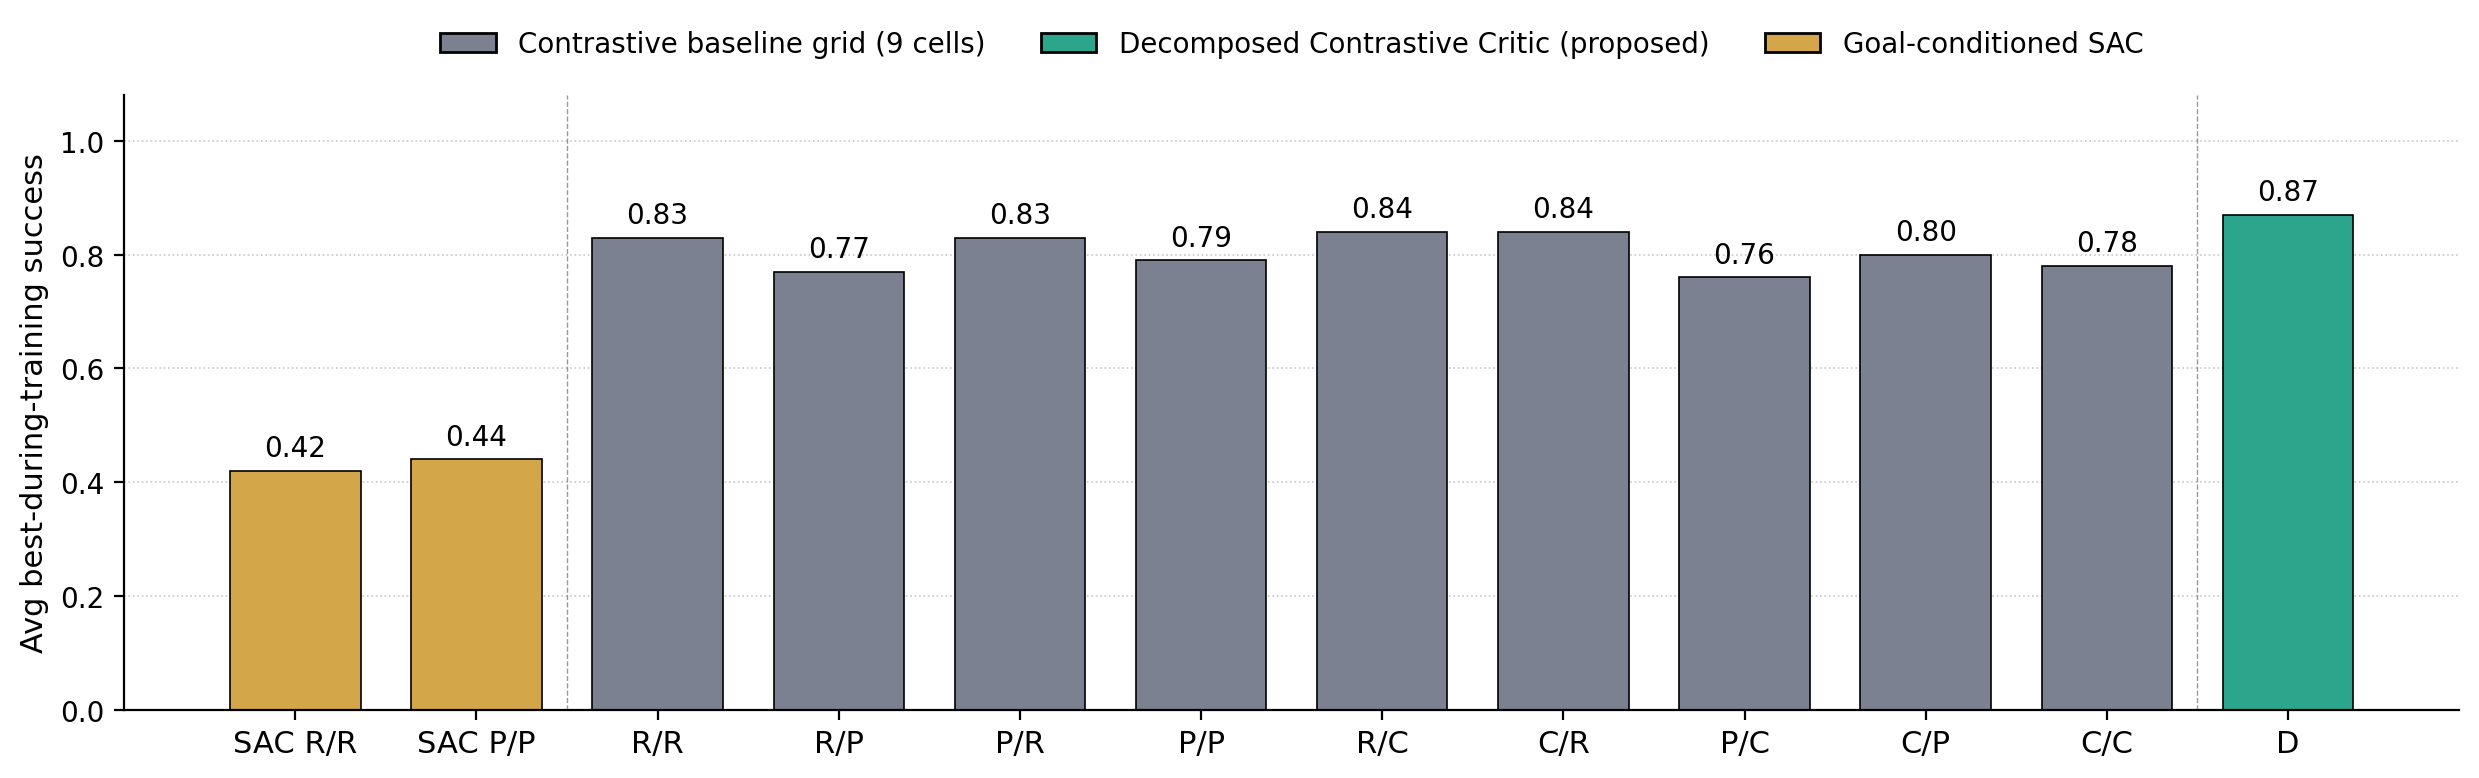
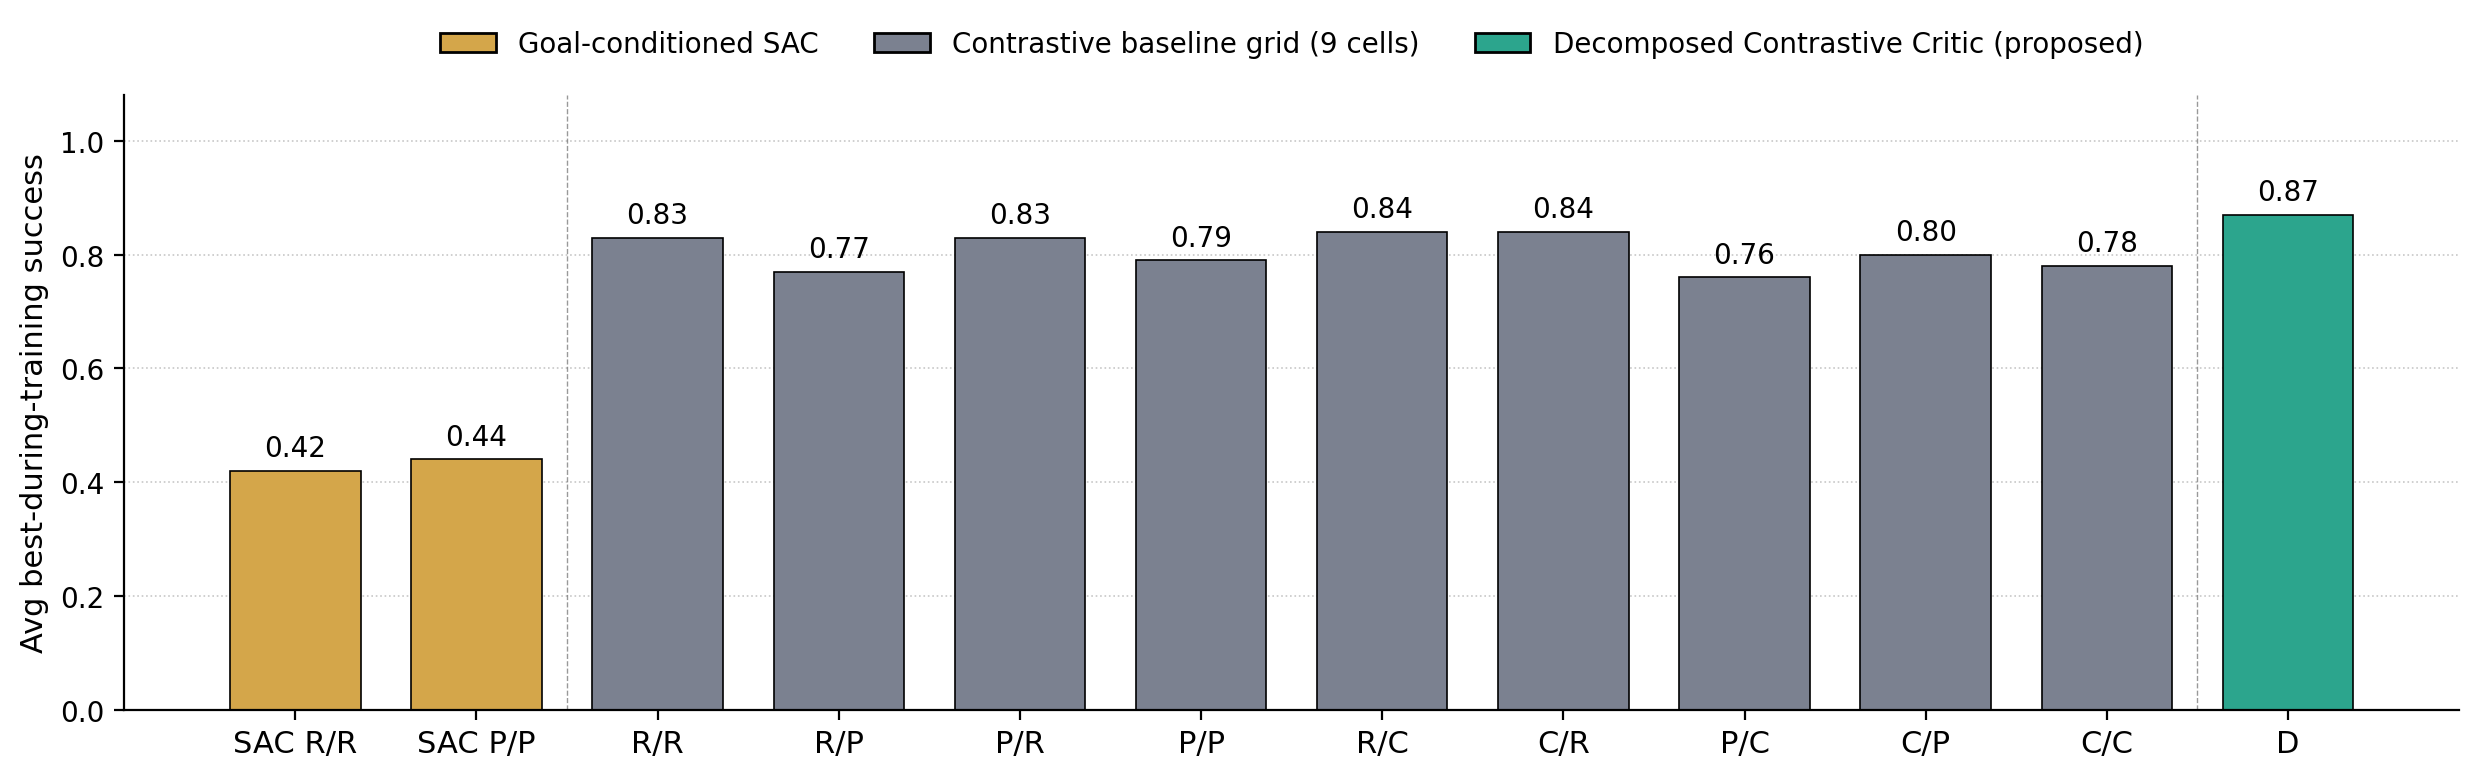
results: re-add render_all_variants_bar.py alongside the per-task line script (both used in the appendix Full results)

Changed region(s): [[0.1553, 0.0308, 0.8697, 0.0925]]

diff --git a/results/scripts/render_all_variants_per_task.py b/results/scripts/render_all_variants_per_task.py
@@ -1,0 +1,103 @@
+"""Per-task line plot across every variant.
+
+Ten Sawyer tasks on the x-axis, one line per variant. Three families:
+SAC (warm, dashed), contrastive 9-cell grid (cool, faint), and the
+proposed Decomposed Contrastive Critic D (bold teal, on top).
+"""
+from pathlib import Path
+import matplotlib.pyplot as plt
+import numpy as np
+
+OUT_PAPER = Path("/tmp/paper_rlc/figs")
+OUT_PAPER.mkdir(parents=True, exist_ok=True)
+OUT_ARCH = Path("/home/user/workspace/sgcrl/results/presentation/img/paper")
+OUT_ARCH.mkdir(parents=True, exist_ok=True)
+
+TASKS = [
+    "hammer", "push-wall", "faucet-close", "push-back", "stick-pull",
+    "handle-press-side", "push", "shelf-place", "window-close",
+    "peg-unplug-side",
+]
+
+# Per-task best mean success, copied from tab:full-grid.
+SAC = {
+    "SAC R/R": [1.00, 0.00, 0.70, 0.00, 1.00, 0.53, 0.07, 0.00, 0.80, 0.07],
+    "SAC P/P": [1.00, 0.13, 0.80, 0.00, 0.67, 0.50, 0.30, 0.00, 0.80, 0.17],
+}
+CONTRASTIVE = {
+    "R/R": [1.00, 1.00, 0.92, 1.00, 1.00, 0.24, 0.98, 0.98, 0.37, 0.83],
+    "R/P": [1.00, 1.00, 0.84, 1.00, 1.00, 0.12, 1.00, 0.68, 0.43, 0.67],
+    "P/R": [1.00, 1.00, 0.86, 1.00, 1.00, 0.24, 1.00, 0.94, 0.40, 0.83],
+    "P/P": [1.00, 1.00, 0.88, 1.00, 1.00, 0.20, 1.00, 0.66, 0.37, 0.80],
+    "R/C": [1.00, 1.00, 0.84, 1.00, 1.00, 0.20, 1.00, 0.98, 0.48, 0.90],
+    "C/R": [1.00, 1.00, 0.92, 1.00, 0.98, 0.26, 1.00, 0.98, 0.40, 0.87],
+    "P/C": [1.00, 1.00, 0.82, 1.00, 1.00, 0.12, 0.98, 0.66, 0.37, 0.67],
+    "C/P": [1.00, 1.00, 0.90, 1.00, 1.00, 0.20, 1.00, 0.78, 0.38, 0.73],
+    "C/C": [1.00, 1.00, 0.90, 1.00, 0.90, 0.18, 0.95, 0.75, 0.37, 0.77],
+}
+D_NAME = "D (proposed)"
+D_VALS = [1.00, 1.00, 0.87, 1.00, 1.00, 0.40, 1.00, 0.97, 0.63, 0.87]
+
+# Aesthetics
+COLOR_D = "#1f8f76"            # deep teal
+COLOR_SAC = ["#d4823a", "#b86528"]  # two warm tones
+# Cool palette for the nine contrastive cells.
+cm = plt.get_cmap("Blues")
+CONTR_COLORS = [cm(0.30 + 0.55 * i / 8) for i in range(9)]
+
+HARD_TASKS = {5, 8, 9}  # shade for visual continuity with other figures
+
+x = np.arange(len(TASKS))
+
+fig, ax = plt.subplots(figsize=(13.0, 5.0))
+
+# Hard-task shading.
+for t in HARD_TASKS:
+    ax.axvspan(t - 0.45, t + 0.45, color="#f4d9a3", alpha=0.22, zorder=0)
+
+# Contrastive baselines (back).
+for (name, vals), c in zip(CONTRASTIVE.items(), CONTR_COLORS):
+    ax.plot(x, vals, color=c, linewidth=1.4, alpha=0.85, marker="o",
+            markersize=3.5, label=name, zorder=2)
+
+# SAC (mid).
+for (name, vals), c in zip(SAC.items(), COLOR_SAC):
+    ax.plot(x, vals, color=c, linewidth=1.8, alpha=0.95, linestyle="--",
+            marker="s", markersize=4.5, label=name, zorder=3)
+
+# D on top.
+ax.plot(x, D_VALS, color=COLOR_D, linewidth=3.0, marker="o",
+        markersize=8.0, markerfacecolor=COLOR_D,
+        markeredgecolor="white", markeredgewidth=1.2,
+        label=D_NAME, zorder=5)
+
+ax.set_xticks(x)
+ax.set_xticklabels([f"{i}\n{t}" for i, t in enumerate(TASKS)], fontsize=10)
+ax.set_xlabel("Task in continual curriculum", fontsize=11, labelpad=8)
+ax.set_ylabel("Best mean success", fontsize=11)
+ax.set_ylim(-0.03, 1.05)
+ax.set_yticks(np.linspace(0, 1, 6))
+ax.grid(axis="y", linestyle=":", linewidth=0.6, alpha=0.6)
+ax.set_axisbelow(True)
+ax.spines[["top", "right"]].set_visible(False)
+ax.set_xlim(-0.5, len(TASKS) - 0.5)
+
+# Two-column legend grouped by family: SAC + D first column, contrastive second.
+handles, labels = ax.get_legend_handles_labels()
+# Order: D, SAC R/R, SAC P/P, then nine contrastive cells.
+order = ([labels.index(D_NAME)]
+         + [labels.index(n) for n in SAC]
+         + [labels.index(n) for n in CONTRASTIVE])
+handles = [handles[i] for i in order]
+labels = [labels[i] for i in order]
+ax.legend(handles, labels, loc="lower center",
+          bbox_to_anchor=(0.5, 1.02), ncol=6,
+          frameon=False, fontsize=9.5, columnspacing=1.4,
+          handlelength=2.2)
+
+fig.tight_layout()
+for p in (OUT_PAPER / "figA_all_variants_per_task.png",
+          OUT_ARCH / "figA_all_variants_per_task.png"):
+    fig.savefig(p, dpi=200, bbox_inches="tight")
+    print(f"wrote {p}")
+plt.close(fig)

diff --git a/results/scripts/render_all_variants_bar.py b/results/scripts/render_all_variants_bar.py
@@ -1,15 +1,14 @@
-"""Wide bar figure: best mean success across the 10 Sawyer tasks for every variant.
-
-Numbers come straight from the appendix tables (per-task avg row) so the figure
-is consistent with the combined table in app:full-grid.
-"""
+"""Wide bar figure: avg best-during-training success across the 10 Sawyer
+tasks for every variant. SAC on the left, contrastive 9-cell grid in the
+middle, proposed Decomposed Contrastive Critic D on the right."""
 from pathlib import Path
 import matplotlib.pyplot as plt
 import numpy as np
+from matplotlib.patches import Patch
 
 OUT_PAPER = Path("/tmp/paper_rlc/figs")
 OUT_PAPER.mkdir(parents=True, exist_ok=True)
-OUT_ARCH = Path("/home/user/workspace/sgcrl/results/presentation/img/paper") 
+OUT_ARCH = Path("/home/user/workspace/sgcrl/results/presentation/img/paper")
 OUT_ARCH.mkdir(parents=True, exist_ok=True)
 
 # (label, avg_success, family)
@@ -55,21 +54,18 @@ ax.grid(axis="y", linestyle=":", linewidth=0.6, alpha=0.7)
 ax.set_axisbelow(True)
 ax.spines[["top", "right"]].set_visible(False)
 
-# Legend
-from matplotlib.patches import Patch
 legend_handles = [
+    Patch(facecolor=COLORS["sac"], edgecolor="black",
+          label="Goal-conditioned SAC"),
     Patch(facecolor=COLORS["contrastive"], edgecolor="black",
           label="Contrastive baseline grid (9 cells)"),
     Patch(facecolor=COLORS["proposed"], edgecolor="black",
           label="Decomposed Contrastive Critic (proposed)"),
-    Patch(facecolor=COLORS["sac"], edgecolor="black",
-          label="Goal-conditioned SAC"),
 ]
 ax.legend(handles=legend_handles, loc="lower center",
           bbox_to_anchor=(0.5, 1.02), ncol=3,
           frameon=False, fontsize=10)
 
-# Vertical separators between SAC, the 9-cell grid, and D.
 ax.axvline(1.5, color="black", linewidth=0.5, alpha=0.4, linestyle="--")
 ax.axvline(10.5, color="black", linewidth=0.5, alpha=0.4, linestyle="--")
 
